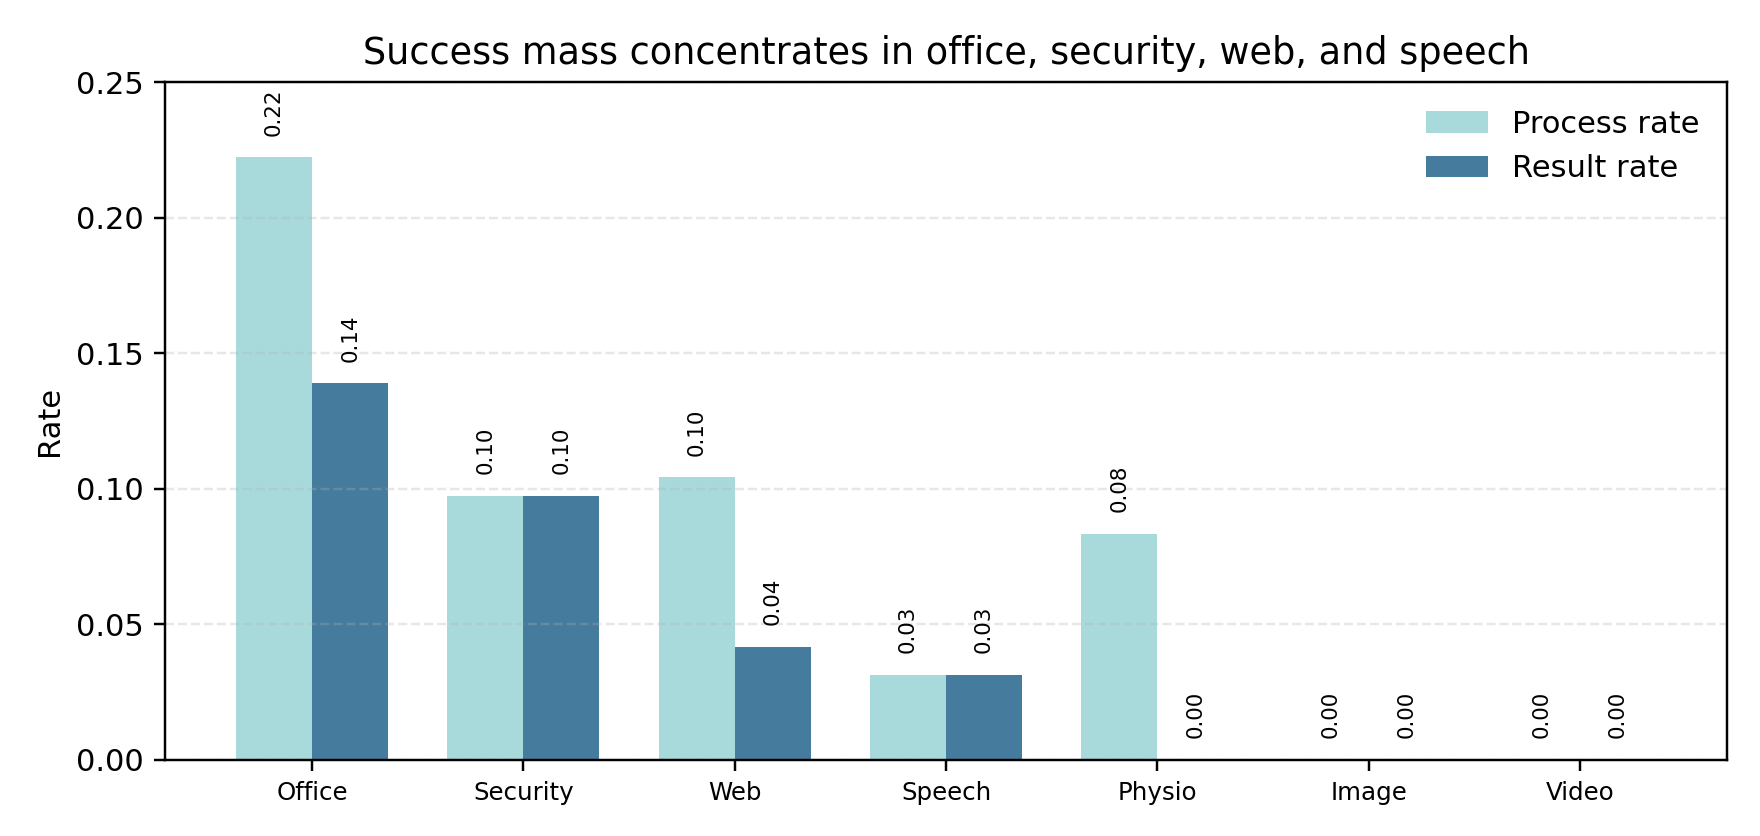
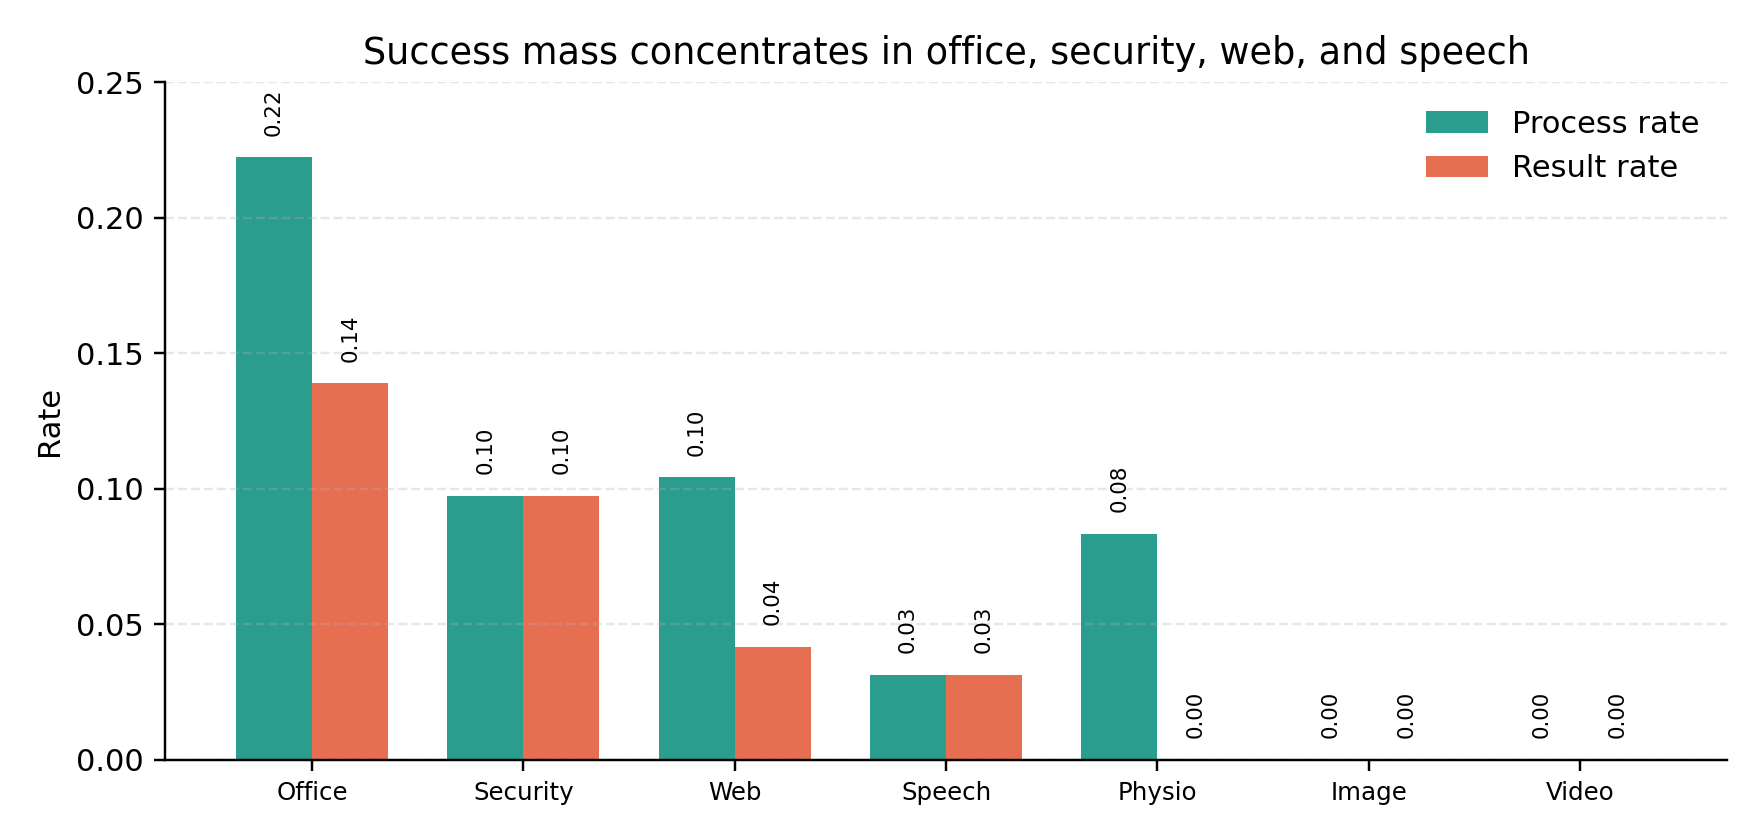
Polish figures and tables for readability

diff --git a/scripts/build_agent_metrics_assets.py b/scripts/build_agent_metrics_assets.py
@@ -95,6 +95,12 @@ def pretty_model(name):
     return PRETTY_MODEL.get(name, name)
 
 
+def format_family_list(text):
+    if not text:
+        return "--"
+    return escape_tex(text.replace(";", ", "))
+
+
 def build_model_summary_table(rows):
     rows = sorted(
         rows,
@@ -112,8 +118,10 @@ def build_model_summary_table(rows):
         "\\small",
         "\\begin{tabular}{lcc}",
         "\\toprule",
+        "\\rowcolor{blue!12}",
         "Model & Process & Result \\\\",
         "\\midrule",
+        "\\rowcolors{2}{blue!4}{white}",
     ]
     for row in rows:
         lines.append(
@@ -141,8 +149,10 @@ def build_domain_table(row_records):
         "\\small",
         "\\begin{tabular}{lrr}",
         "\\toprule",
+        "\\rowcolor{blue!12}",
         "Domain & Process & Result \\\\",
         "\\midrule",
+        "\\rowcolors{2}{blue!4}{white}",
     ]
     for domain in DOMAIN_ORDER:
         item = stats[domain]
@@ -168,8 +178,10 @@ def build_shared_table(rows):
         "\\small",
         "\\begin{tabular}{lcc}",
         "\\toprule",
+        "\\rowcolor{blue!12}",
         "Model & T01 & T02 \\\\",
         "\\midrule",
+        "\\rowcolors{2}{blue!4}{white}",
     ]
     for model in sorted(statuses):
         t1 = statuses[model].get(task_labels[0], "--")
@@ -197,17 +209,19 @@ def build_provider_screen_table(model_rows):
         "\\label{tab:provider-screen}",
         "\\centering",
         "\\small",
-        "\\begin{tabular}{p{0.18\\columnwidth}ccp{0.42\\columnwidth}}",
+        "\\begin{tabular}{p{0.18\\columnwidth}ccp{0.50\\columnwidth}}",
         "\\toprule",
+        "\\rowcolor{blue!12}",
         "Model & Process & Result & Families with Result \\\\",
         "\\midrule",
+        "\\rowcolors{2}{blue!4}{white}",
     ]
     for row in rows:
         lines.append(
             f'{escape_tex(pretty_model(row["model"]))} & '
             f'{row["official_process_true"]} & '
             f'{row["official_result_true"]} & '
-            f'{escape_tex(row["families_with_official_result"] or "--")} \\\\'
+            f'{format_family_list(row["families_with_official_result"])} \\\\'
         )
     lines.extend([
         "\\bottomrule",
@@ -236,8 +250,10 @@ def build_provider_full54_domain_table(rows):
         "\\small",
         "\\begin{tabular}{lrr}",
         "\\toprule",
+        "\\rowcolor{blue!12}",
         "Domain & Process & Result \\\\",
         "\\midrule",
+        "\\rowcolors{2}{blue!4}{white}",
     ]
     for domain in DOMAIN_ORDER:
         item = stats[domain]
@@ -266,8 +282,8 @@ def plot_model_summary(rows):
     y = np.arange(len(labels))
     h = 0.38
     fig, ax = plt.subplots(figsize=(8.2, 4.8))
-    ax.barh(y + h / 2, process, height=h, color="#8ecae6", label="Process")
-    ax.barh(y - h / 2, result, height=h, color="#1d3557", label="Result")
+    ax.barh(y + h / 2, process, height=h, color="#4ea8de", label="Process")
+    ax.barh(y - h / 2, result, height=h, color="#f4a261", label="Result")
     ax.set_yticks(y)
     ax.set_yticklabels(labels, fontsize=8)
     ax.set_xlabel("Official success count")
@@ -275,6 +291,8 @@ def plot_model_summary(rows):
     ax.grid(axis="x", linestyle="--", alpha=0.3)
     ax.legend(frameon=False, loc="lower right")
     ax.set_title("Comparable local cohort under GitTaskBench official metrics")
+    ax.spines["top"].set_visible(False)
+    ax.spines["right"].set_visible(False)
     for idx, value in enumerate(process):
         ax.text(value + 0.12, y[idx] + h / 2, str(value), va="center", fontsize=8)
     for idx, value in enumerate(result):
@@ -299,8 +317,8 @@ def plot_domain_summary(row_records):
     x = np.arange(len(DOMAIN_ORDER))
     w = 0.36
     fig, ax = plt.subplots(figsize=(8.0, 3.8))
-    ax.bar(x - w / 2, process_rates, width=w, color="#a8dadc", label="Process rate")
-    ax.bar(x + w / 2, result_rates, width=w, color="#457b9d", label="Result rate")
+    ax.bar(x - w / 2, process_rates, width=w, color="#2a9d8f", label="Process rate")
+    ax.bar(x + w / 2, result_rates, width=w, color="#e76f51", label="Result rate")
     ax.set_xticks(x)
     ax.set_xticklabels(DOMAIN_ORDER, fontsize=8)
     ax.set_ylim(0, 0.25)
@@ -308,6 +326,8 @@ def plot_domain_summary(row_records):
     ax.grid(axis="y", linestyle="--", alpha=0.3)
     ax.legend(frameon=False, loc="upper right")
     ax.set_title("Success mass concentrates in office, security, web, and speech")
+    ax.spines["top"].set_visible(False)
+    ax.spines["right"].set_visible(False)
     for idx, domain in enumerate(DOMAIN_ORDER):
         total = stats[domain]["total"]
         ax.text(
@@ -347,7 +367,7 @@ def plot_task_heatmap(row_records):
             matrix[i, j] = lookup.get((model, task_id), 0)
 
     fig, ax = plt.subplots(figsize=(8.4, 3.8))
-    im = ax.imshow(matrix, cmap="Blues", aspect="auto", vmin=0, vmax=1)
+    im = ax.imshow(matrix, cmap="YlGnBu", aspect="auto", vmin=0, vmax=1)
     ax.set_yticks(np.arange(len(models)))
     ax.set_yticklabels([pretty_model(m) for m in models], fontsize=8)
     ax.set_xticks(np.arange(len(selected_tasks)))

diff --git a/sections/results.tex b/sections/results.tex
@@ -132,7 +132,7 @@ condition.
 
 The family pattern is more informative than the totals. Both GPT-family models
 convert \texttt{Scrapy\_03} and \texttt{NeuroKit\_01} into official
-\resultmetric success, whereas the open-8 cohort had no official
+\resultmetric success, whereas the comparable local cohort had no official
 \resultmetric-positive rows at all in \texttt{Scrapy} or \texttt{NeuroKit}.
 \texttt{gpt-5-chat} additionally reaches official success on
 \texttt{SpeechBrain\_05}; \texttt{gpt-5.2} does not. \texttt{Gemini-2.5-Pro},
@@ -190,7 +190,7 @@ targeted provider screen, yet the full-benchmark run yields
 the image/video slice remains unsuccessful.
 
 This is the clearest reason not to treat a targeted provider slice as a hidden
-replacement leaderboard. The screen correctly shows that some open-8 zeros are
+replacement leaderboard. The screen correctly shows that some local zeros are
 not benchmark-wide impossibilities: provider models can light up
 \texttt{Scrapy}, \texttt{NeuroKit}, and broader office families. But the
 full-benchmark provider run shows that family activation and family robustness are

diff --git a/sections/setup.tex b/sections/setup.tex
@@ -61,8 +61,8 @@ broader model coverage, but it is not a synchronized same-day frontier rerun.
 As a supplementary robustness check, we also complete one targeted provider
 screen for three locally available provider models:
 \texttt{gpt-5-chat}, \texttt{gpt-5.2}, and \texttt{Gemini-2.5-Pro}. The task
-set is intentionally small but structured. It includes all open-8
-success-bearing families, the main open-8
+set is intentionally small but structured. It includes all main
+success-bearing families, the main
 \processmetric$=$True/\resultmetric$=$False families, and one image plus one
 video stressor. We report the screen separately rather than merging
 it into the comparable local totals because it is a targeted slice rather than a

diff --git a/tables/provider_screen.tex b/tables/provider_screen.tex
@@ -3,12 +3,14 @@
 \label{tab:provider-screen}
 \centering
 \small
-\begin{tabular}{p{0.18\columnwidth}ccp{0.42\columnwidth}}
+\begin{tabular}{p{0.18\columnwidth}ccp{0.50\columnwidth}}
 \toprule
+\rowcolor{blue!12}
 Model & Process & Result & Families with Result \\
 \midrule
-gpt-5-chat & 11 & 9 & Eparse;Faker;NeuroKit;PDFPlumber;Scrapy;SpeechBrain;Trafilatura \\
-gpt-5.2 & 10 & 7 & Eparse;Faker;NeuroKit;PDFPlumber;Scrapy;Trafilatura \\
+\rowcolors{2}{blue!4}{white}
+gpt-5-chat & 11 & 9 & Eparse, Faker, NeuroKit, PDFPlumber, Scrapy, SpeechBrain, Trafilatura \\
+gpt-5.2 & 10 & 7 & Eparse, Faker, NeuroKit, PDFPlumber, Scrapy, Trafilatura \\
 Gemini-2.5-Pro & 1 & 1 & PDFPlumber \\
 \bottomrule
 \end{tabular}

diff --git a/tables/process_gap_examples.tex b/tables/process_gap_examples.tex
@@ -5,8 +5,10 @@
 \small
 \begin{tabular}{p{0.16\columnwidth}p{0.16\columnwidth}p{0.56\columnwidth}}
 \toprule
+\rowcolor{blue!12}
 Family & Task & Official comment excerpt \\
 \midrule
+\rowcolors{2}{blue!4}{white}
 Eparse & \texttt{Eparse\_03} & Evaluation process error after grading began: \texttt{'list' object has no attribute 'get'}. \\
 PDFPlumber & \texttt{PDFPlumber\_02} & Column names match, but overall cell-by-cell match rate is \texttt{64.92\%}, below the \texttt{75\%} threshold. \\
 Scrapy & \texttt{Scrapy\_03} & Prediction XML parsing failed; the evaluator could not extract valid records. \\

diff --git a/tables/shared_trafilatura.tex b/tables/shared_trafilatura.tex
@@ -5,8 +5,10 @@
 \small
 \begin{tabular}{lcc}
 \toprule
+\rowcolor{blue!12}
 Model & T01 & T02 \\
 \midrule
+\rowcolors{2}{blue!4}{white}
 Qwen2.5-14B & 0/0 & 0/0 \\
 Qwen2.5-32B & 0/0 & 0/0 \\
 Qwen2.5-7B & 0/0 & 0/0 \\

diff --git a/tables/model_summary.tex b/tables/model_summary.tex
@@ -5,8 +5,10 @@
 \small
 \begin{tabular}{lcc}
 \toprule
+\rowcolor{blue!12}
 Model & Process & Result \\
 \midrule
+\rowcolors{2}{blue!4}{white}
 Qwen2.5-14B & 9 & 5 \\
 Qwen3-32B & 8 & 5 \\
 Qwen2.5-32B & 7 & 5 \\

diff --git a/tables/domain_summary.tex b/tables/domain_summary.tex
@@ -5,8 +5,10 @@
 \small
 \begin{tabular}{lrr}
 \toprule
+\rowcolor{blue!12}
 Domain & Process & Result \\
 \midrule
+\rowcolors{2}{blue!4}{white}
 Office & 16 & 10 \\
 Security & 7 & 7 \\
 Web & 5 & 2 \\

diff --git a/tables/provider_full54_domain.tex b/tables/provider_full54_domain.tex
@@ -5,8 +5,10 @@
 \small
 \begin{tabular}{lrr}
 \toprule
+\rowcolor{blue!12}
 Domain & Process & Result \\
 \midrule
+\rowcolors{2}{blue!4}{white}
 Office & 9 & 8 \\
 Security & 4 & 3 \\
 Web & 5 & 4 \\
